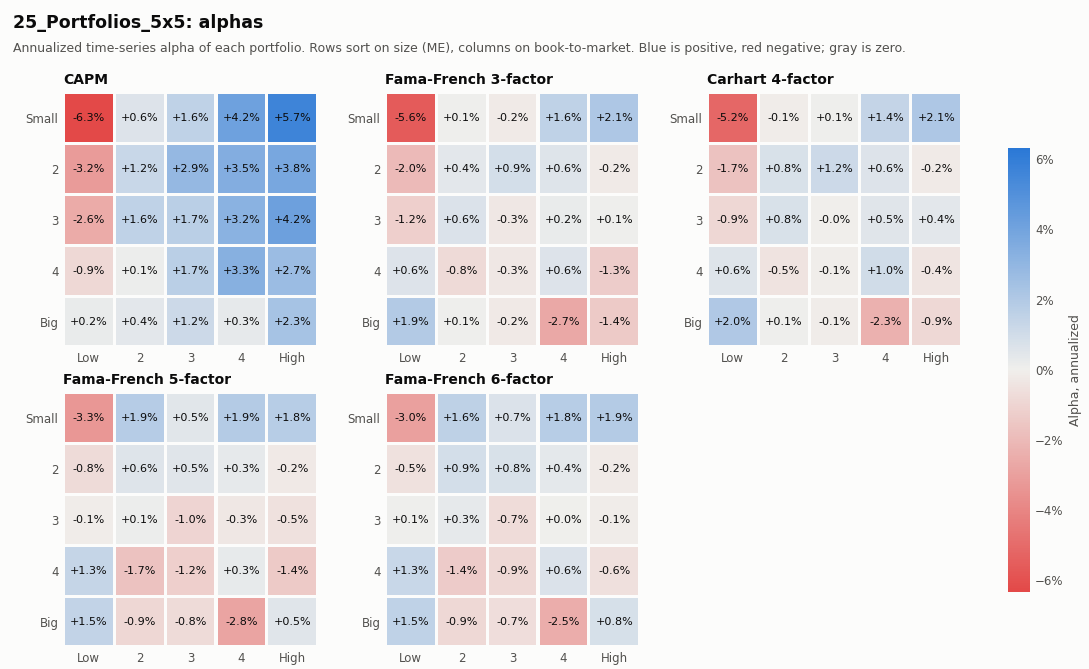
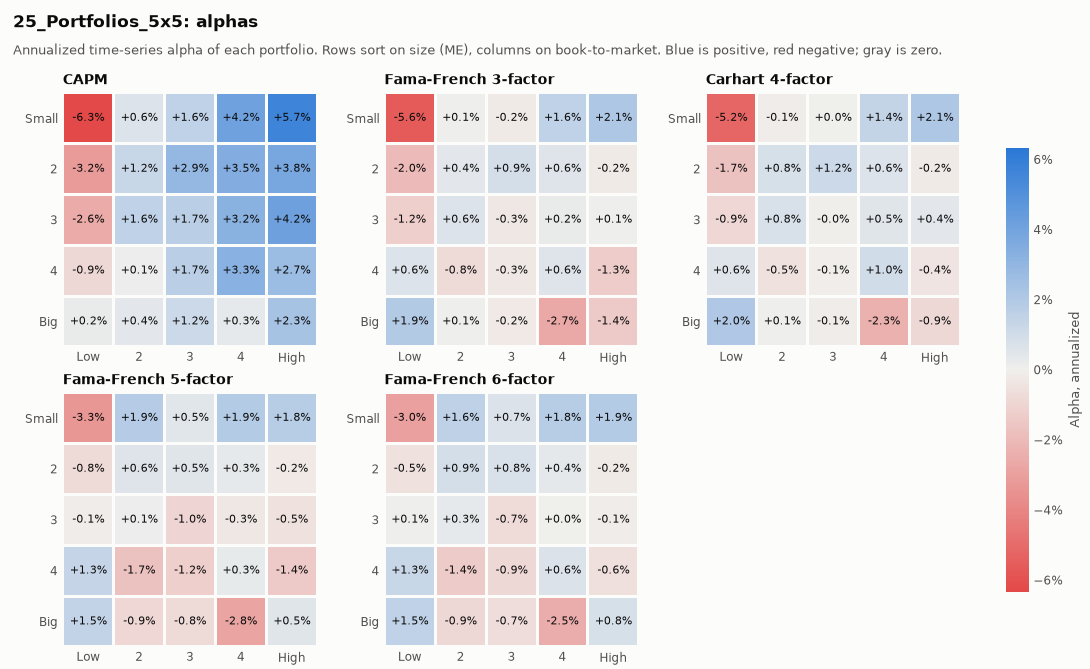
Regenerate example-25-portfolios and example-factors from snapshot-2026-09-29
Both now run offline (--data-dir data/snapshot-2026-09-29); two runs with
the proxy pointed at a dead port gave byte-identical output, PNGs included.
French's revisions since the last live run move some numbers in the last
digit, e.g. CAPM GRS p-value 7.5e-11 -> 7.4e-11, Carhart FM MOM premium
23.67% -> 23.49%. No test's conclusion changes.

Claude-Session: https://claude.ai/code/session_01UV2jHGk1phBKYqsk77nvaw

diff --git a/fama-french-factor-model/reports/example-25-portfolios/report.md b/fama-french-factor-model/reports/example-25-portfolios/report.md
@@ -1,12 +1,12 @@
 # Asset pricing tests: 25_Portfolios_5x5
 
-25 value-weighted portfolios (25_Portfolios_5x5), monthly, Jul 1963 to Jul 2026 (757 periods). Returns are in excess of the T-bill rate; alphas and premia are annualized.
+25 value-weighted portfolios (25_Portfolios_5x5), monthly, Jul 1963 to Jul 2026 (757 periods). Returns are in excess of the T-bill rate; alphas and premia are annualized. Source: Kenneth R. French Data Library (saved snapshot `snapshot-2026-09-29`, downloaded 2026-09-29).
 
 ## GRS test: are all alphas jointly zero?
 
 |  | GRS | p-value | A\|alpha\| (ann.) | A\|alpha\| / A\|r\| | SR(alpha) (ann.) | avg R2 | T | N |
 |:---|---:|---:|---:|---:|---:|---:|---:|---:|
-| CAPM | 4.20 | 7.5e-11 | 2.38% | 1.39 | 1.32 | 0.734 | 757 | 25 |
+| CAPM | 4.20 | 7.4e-11 | 2.38% | 1.39 | 1.32 | 0.734 | 757 | 25 |
 | Fama-French 3-factor | 3.63 | 9.3e-09 | 1.04% | 0.61 | 1.24 | 0.910 | 757 | 25 |
 | Carhart 4-factor | 3.19 | 3.4e-07 | 0.96% | 0.56 | 1.19 | 0.910 | 757 | 25 |
 | Fama-French 5-factor | 3.20 | 3.1e-07 | 1.05% | 0.61 | 1.19 | 0.916 | 757 | 25 |
@@ -21,28 +21,28 @@ A|alpha| is the average absolute alpha; A|alpha| / A|r| compares it with the spr
 |  | CAPM alpha (ann.) | CAPM t(alpha) | Fama-French 3-factor alpha (ann.) | Fama-French 3-factor t(alpha) | Carhart 4-factor alpha (ann.) | Carhart 4-factor t(alpha) | Fama-French 5-factor alpha (ann.) | Fama-French 5-factor t(alpha) | Fama-French 6-factor alpha (ann.) | Fama-French 6-factor t(alpha) |
 |:---|---:|---:|---:|---:|---:|---:|---:|---:|---:|---:|
 | SMALL LoBM | -6.33% | -2.96 | -5.62% | -5.09 | -5.19% | -4.62 | -3.32% | -3.25 | -3.01% | -2.91 |
-| ME1 BM2 | 0.62% | 0.33 | 0.08% | 0.09 | -0.11% | -0.12 | 1.85% | 2.32 | 1.63% | 2.01 |
-| ME1 BM3 | 1.56% | 1.01 | -0.17% | -0.27 | 0.05% | 0.08 | 0.49% | 0.76 | 0.68% | 1.04 |
-| ME1 BM4 | 4.15% | 2.64 | 1.56% | 2.69 | 1.42% | 2.39 | 1.91% | 3.24 | 1.78% | 2.99 |
+| ME1 BM2 | 0.61% | 0.32 | 0.08% | 0.09 | -0.11% | -0.13 | 1.85% | 2.32 | 1.62% | 2.00 |
+| ME1 BM3 | 1.56% | 1.01 | -0.17% | -0.27 | 0.05% | 0.07 | 0.49% | 0.76 | 0.68% | 1.04 |
+| ME1 BM4 | 4.15% | 2.64 | 1.56% | 2.68 | 1.42% | 2.39 | 1.91% | 3.24 | 1.78% | 2.99 |
 | SMALL HiBM | 5.68% | 3.16 | 2.10% | 2.49 | 2.11% | 2.46 | 1.82% | 2.08 | 1.92% | 2.16 |
-| ME2 BM1 | -3.20% | -1.97 | -2.02% | -2.59 | -1.70% | -2.15 | -0.76% | -1.07 | -0.54% | -0.75 |
-| ME2 BM2 | 1.24% | 0.92 | 0.41% | 0.63 | 0.79% | 1.21 | 0.57% | 0.94 | 0.92% | 1.50 |
+| ME2 BM1 | -3.20% | -1.97 | -2.02% | -2.59 | -1.71% | -2.15 | -0.76% | -1.07 | -0.54% | -0.75 |
+| ME2 BM2 | 1.25% | 0.93 | 0.41% | 0.65 | 0.80% | 1.23 | 0.57% | 0.94 | 0.93% | 1.50 |
 | ME2 BM3 | 2.88% | 2.32 | 0.89% | 1.33 | 1.18% | 1.73 | 0.50% | 0.78 | 0.78% | 1.21 |
-| ME2 BM4 | 3.48% | 2.73 | 0.59% | 1.04 | 0.61% | 1.05 | 0.32% | 0.57 | 0.37% | 0.64 |
-| ME2 BM5 | 3.84% | 2.43 | -0.16% | -0.26 | -0.17% | -0.28 | -0.20% | -0.33 | -0.19% | -0.30 |
-| ME3 BM1 | -2.60% | -1.98 | -1.19% | -1.65 | -0.90% | -1.22 | -0.13% | -0.19 | 0.06% | 0.08 |
-| ME3 BM2 | 1.56% | 1.50 | 0.64% | 0.92 | 0.78% | 1.09 | 0.14% | 0.21 | 0.30% | 0.44 |
+| ME2 BM4 | 3.48% | 2.73 | 0.58% | 1.04 | 0.60% | 1.05 | 0.32% | 0.57 | 0.37% | 0.64 |
+| ME2 BM5 | 3.84% | 2.43 | -0.16% | -0.27 | -0.17% | -0.28 | -0.20% | -0.33 | -0.19% | -0.30 |
+| ME3 BM1 | -2.60% | -1.98 | -1.20% | -1.66 | -0.90% | -1.23 | -0.13% | -0.19 | 0.05% | 0.07 |
+| ME3 BM2 | 1.55% | 1.50 | 0.64% | 0.92 | 0.78% | 1.09 | 0.14% | 0.21 | 0.30% | 0.44 |
 | ME3 BM3 | 1.73% | 1.69 | -0.34% | -0.49 | -0.05% | -0.07 | -1.02% | -1.52 | -0.71% | -1.04 |
-| ME3 BM4 | 3.23% | 2.82 | 0.20% | 0.31 | 0.52% | 0.77 | -0.30% | -0.47 | 0.02% | 0.03 |
+| ME3 BM4 | 3.25% | 2.84 | 0.22% | 0.33 | 0.54% | 0.81 | -0.30% | -0.47 | 0.03% | 0.04 |
 | ME3 BM5 | 4.19% | 2.80 | 0.07% | 0.09 | 0.42% | 0.51 | -0.51% | -0.63 | -0.15% | -0.18 |
 | ME4 BM1 | -0.88% | -0.87 | 0.64% | 0.91 | 0.59% | 0.83 | 1.34% | 1.92 | 1.26% | 1.77 |
 | ME4 BM2 | 0.12% | 0.15 | -0.82% | -1.12 | -0.49% | -0.66 | -1.72% | -2.39 | -1.35% | -1.85 |
 | ME4 BM3 | 1.71% | 1.81 | -0.34% | -0.45 | -0.06% | -0.08 | -1.19% | -1.61 | -0.88% | -1.18 |
-| ME4 BM4 | 3.32% | 3.05 | 0.60% | 0.77 | 1.00% | 1.27 | 0.25% | 0.32 | 0.65% | 0.82 |
+| ME4 BM4 | 3.31% | 3.04 | 0.59% | 0.76 | 0.99% | 1.25 | 0.25% | 0.32 | 0.64% | 0.81 |
 | ME4 BM5 | 2.72% | 1.89 | -1.30% | -1.42 | -0.42% | -0.46 | -1.39% | -1.50 | -0.58% | -0.62 |
 | BIG LoBM | 0.22% | 0.31 | 1.94% | 4.02 | 2.03% | 4.12 | 1.46% | 3.16 | 1.54% | 3.28 |
 | ME5 BM2 | 0.41% | 0.60 | 0.08% | 0.13 | 0.07% | 0.11 | -0.92% | -1.42 | -0.85% | -1.30 |
-| ME5 BM3 | 1.15% | 1.28 | -0.21% | -0.27 | -0.13% | -0.16 | -0.78% | -1.00 | -0.66% | -0.83 |
+| ME5 BM3 | 1.15% | 1.28 | -0.20% | -0.27 | -0.13% | -0.16 | -0.78% | -1.00 | -0.66% | -0.83 |
 | ME5 BM4 | 0.30% | 0.26 | -2.71% | -3.87 | -2.33% | -3.28 | -2.85% | -3.93 | -2.50% | -3.41 |
 | BIG HiBM | 2.35% | 1.48 | -1.42% | -1.22 | -0.88% | -0.74 | 0.51% | 0.45 | 0.83% | 0.71 |
 
@@ -65,10 +65,10 @@ A|alpha| is the average absolute alpha; A|alpha| / A|r| compares it with the spr
 
 |  | lambda (ann.) | t (FM) | t (Shanken) | factor mean (ann.) |
 |:---|---:|---:|---:|---:|
-| const | 13.86% | 4.47 | 4.41 |  |
+| const | 13.86% | 4.48 | 4.41 |  |
 | Mkt-RF | -6.54% | -1.79 | -1.56 | 7.19% |
 | SMB | 1.39% | 1.02 | 0.73 | 1.77% |
-| HML | 3.97% | 2.99 | 2.12 | 3.59% |
+| HML | 3.97% | 2.99 | 2.13 | 3.59% |
 
 <sub>Data: [fama-macbeth-fama-french-3-factor.csv](fama-macbeth-fama-french-3-factor.csv)</sub>
 
@@ -78,11 +78,11 @@ A|alpha| is the average absolute alpha; A|alpha| / A|r| compares it with the spr
 
 |  | lambda (ann.) | t (FM) | t (Shanken) | factor mean (ann.) |
 |:---|---:|---:|---:|---:|
-| const | 8.57% | 2.38 | 2.10 |  |
-| Mkt-RF | -0.85% | -0.21 | -0.17 | 7.19% |
+| const | 8.62% | 2.39 | 2.11 |  |
+| Mkt-RF | -0.91% | -0.22 | -0.18 | 7.19% |
 | SMB | 1.24% | 0.92 | 0.62 | 1.77% |
 | HML | 4.39% | 3.31 | 2.21 | 3.59% |
-| MOM | 23.67% | 2.72 | 2.36 | 7.25% |
+| MOM | 23.49% | 2.71 | 2.36 | 7.26% |
 
 <sub>Data: [fama-macbeth-carhart-4-factor.csv](fama-macbeth-carhart-4-factor.csv)</sub>
 
@@ -92,28 +92,28 @@ A|alpha| is the average absolute alpha; A|alpha| / A|r| compares it with the spr
 
 |  | lambda (ann.) | t (FM) | t (Shanken) | factor mean (ann.) |
 |:---|---:|---:|---:|---:|
-| const | 12.43% | 3.96 | 3.77 |  |
-| Mkt-RF | -5.65% | -1.52 | -1.29 | 7.19% |
+| const | 12.44% | 3.96 | 3.77 |  |
+| Mkt-RF | -5.66% | -1.52 | -1.30 | 7.19% |
 | SMB | 3.05% | 2.25 | 1.57 | 2.25% |
 | HML | 3.57% | 2.70 | 1.88 | 3.59% |
-| RMW | 5.32% | 2.58 | 2.23 | 3.08% |
+| RMW | 5.32% | 2.58 | 2.23 | 3.09% |
 | CMA | -1.41% | -0.68 | -0.60 | 2.96% |
 
 <sub>Data: [fama-macbeth-fama-french-5-factor.csv](fama-macbeth-fama-french-5-factor.csv)</sub>
 
-757 cross-sections, full-sample betas, classic Fama-MacBeth t-stats with Shanken (1992) correction. Cross-sectional R² 0.756. For traded factors the premium should be close to the factor's mean.
+757 cross-sections, full-sample betas, classic Fama-MacBeth t-stats with Shanken (1992) correction. Cross-sectional R² 0.757. For traded factors the premium should be close to the factor's mean.
 
 ### Fama-MacBeth: Fama-French 6-factor
 
 |  | lambda (ann.) | t (FM) | t (Shanken) | factor mean (ann.) |
 |:---|---:|---:|---:|---:|
-| const | 5.93% | 1.64 | 1.32 |  |
-| Mkt-RF | 1.32% | 0.32 | 0.24 | 7.19% |
-| SMB | 3.15% | 2.32 | 1.47 | 2.25% |
-| HML | 4.10% | 3.09 | 1.95 | 3.59% |
-| RMW | 6.16% | 2.93 | 2.20 | 3.08% |
-| CMA | -1.57% | -0.76 | -0.57 | 2.96% |
-| MOM | 29.86% | 3.37 | 2.67 | 7.25% |
+| const | 5.95% | 1.65 | 1.32 |  |
+| Mkt-RF | 1.30% | 0.31 | 0.24 | 7.19% |
+| SMB | 3.15% | 2.33 | 1.47 | 2.25% |
+| HML | 4.10% | 3.10 | 1.95 | 3.59% |
+| RMW | 6.17% | 2.94 | 2.20 | 3.09% |
+| CMA | -1.58% | -0.76 | -0.58 | 2.96% |
+| MOM | 29.81% | 3.38 | 2.68 | 7.26% |
 
 <sub>Data: [fama-macbeth-fama-french-6-factor.csv](fama-macbeth-fama-french-6-factor.csv)</sub>
 

diff --git a/fama-french-factor-model/reports/example-factors/report.md b/fama-french-factor-model/reports/example-factors/report.md
@@ -1,6 +1,6 @@
 # Fama-French 6-factor factors
 
-Monthly factor returns, Jul 1963 to Jul 2026 (757 periods). Source: Kenneth R. French Data Library.
+Monthly factor returns, Jul 1963 to Jul 2026 (757 periods). Source: Kenneth R. French Data Library (saved snapshot `snapshot-2026-09-29`, downloaded 2026-09-29).
 
 ## Summary statistics
 
@@ -9,9 +9,9 @@ Monthly factor returns, Jul 1963 to Jul 2026 (757 periods). Source: Kenneth R. F
 | Mkt-RF | 7.19% | 15.45% | 0.47 | 3.70 | -23.19% | 16.10% | 757 |
 | SMB | 2.25% | 10.47% | 0.21 | 1.71 | -15.53% | 18.54% | 757 |
 | HML | 3.59% | 10.28% | 0.35 | 2.77 | -13.83% | 12.86% | 757 |
-| RMW | 3.08% | 7.91% | 0.39 | 3.10 | -18.93% | 13.04% | 757 |
+| RMW | 3.09% | 7.91% | 0.39 | 3.10 | -18.93% | 13.04% | 757 |
 | CMA | 2.96% | 7.18% | 0.41 | 3.27 | -7.06% | 9.00% | 757 |
-| MOM | 7.25% | 14.56% | 0.50 | 3.96 | -34.36% | 18.05% | 757 |
+| MOM | 7.26% | 14.56% | 0.50 | 3.96 | -34.36% | 18.05% | 757 |
 
 <sub>Data: [summary.csv](summary.csv)</sub>
 
@@ -33,9 +33,9 @@ Monthly factor returns, Jul 1963 to Jul 2026 (757 periods). Source: Kenneth R. F
 |  | alpha (ann.) | t(alpha) | Mkt-RF | SMB | HML | RMW | CMA | MOM | R2 |
 |:---|---:|---:|---:|---:|---:|---:|---:|---:|---:|
 | Mkt-RF | 10.54% | 6.06 |  | 0.29 | 0.01 | -0.22 | -0.74 | -0.16 | 0.222 |
-| SMB | 2.34% | 1.73 | 0.14 |  | 0.16 | -0.40 | -0.15 | -0.00 | 0.168 |
+| SMB | 2.34% | 1.74 | 0.14 |  | 0.16 | -0.40 | -0.15 | -0.00 | 0.168 |
 | HML | 0.89% | 0.75 | 0.00 | 0.09 |  | 0.16 | 0.98 | -0.13 | 0.513 |
-| RMW | 3.95% | 4.22 | -0.06 | -0.24 | 0.16 |  | -0.21 | 0.02 | 0.145 |
+| RMW | 3.95% | 4.22 | -0.06 | -0.24 | 0.16 |  | -0.22 | 0.02 | 0.145 |
 | CMA | 2.13% | 2.88 | -0.10 | -0.04 | 0.46 | -0.10 |  | 0.04 | 0.528 |
 | MOM | 8.99% | 4.30 | -0.16 | -0.00 | -0.47 | 0.09 | 0.29 |  | 0.091 |
 
